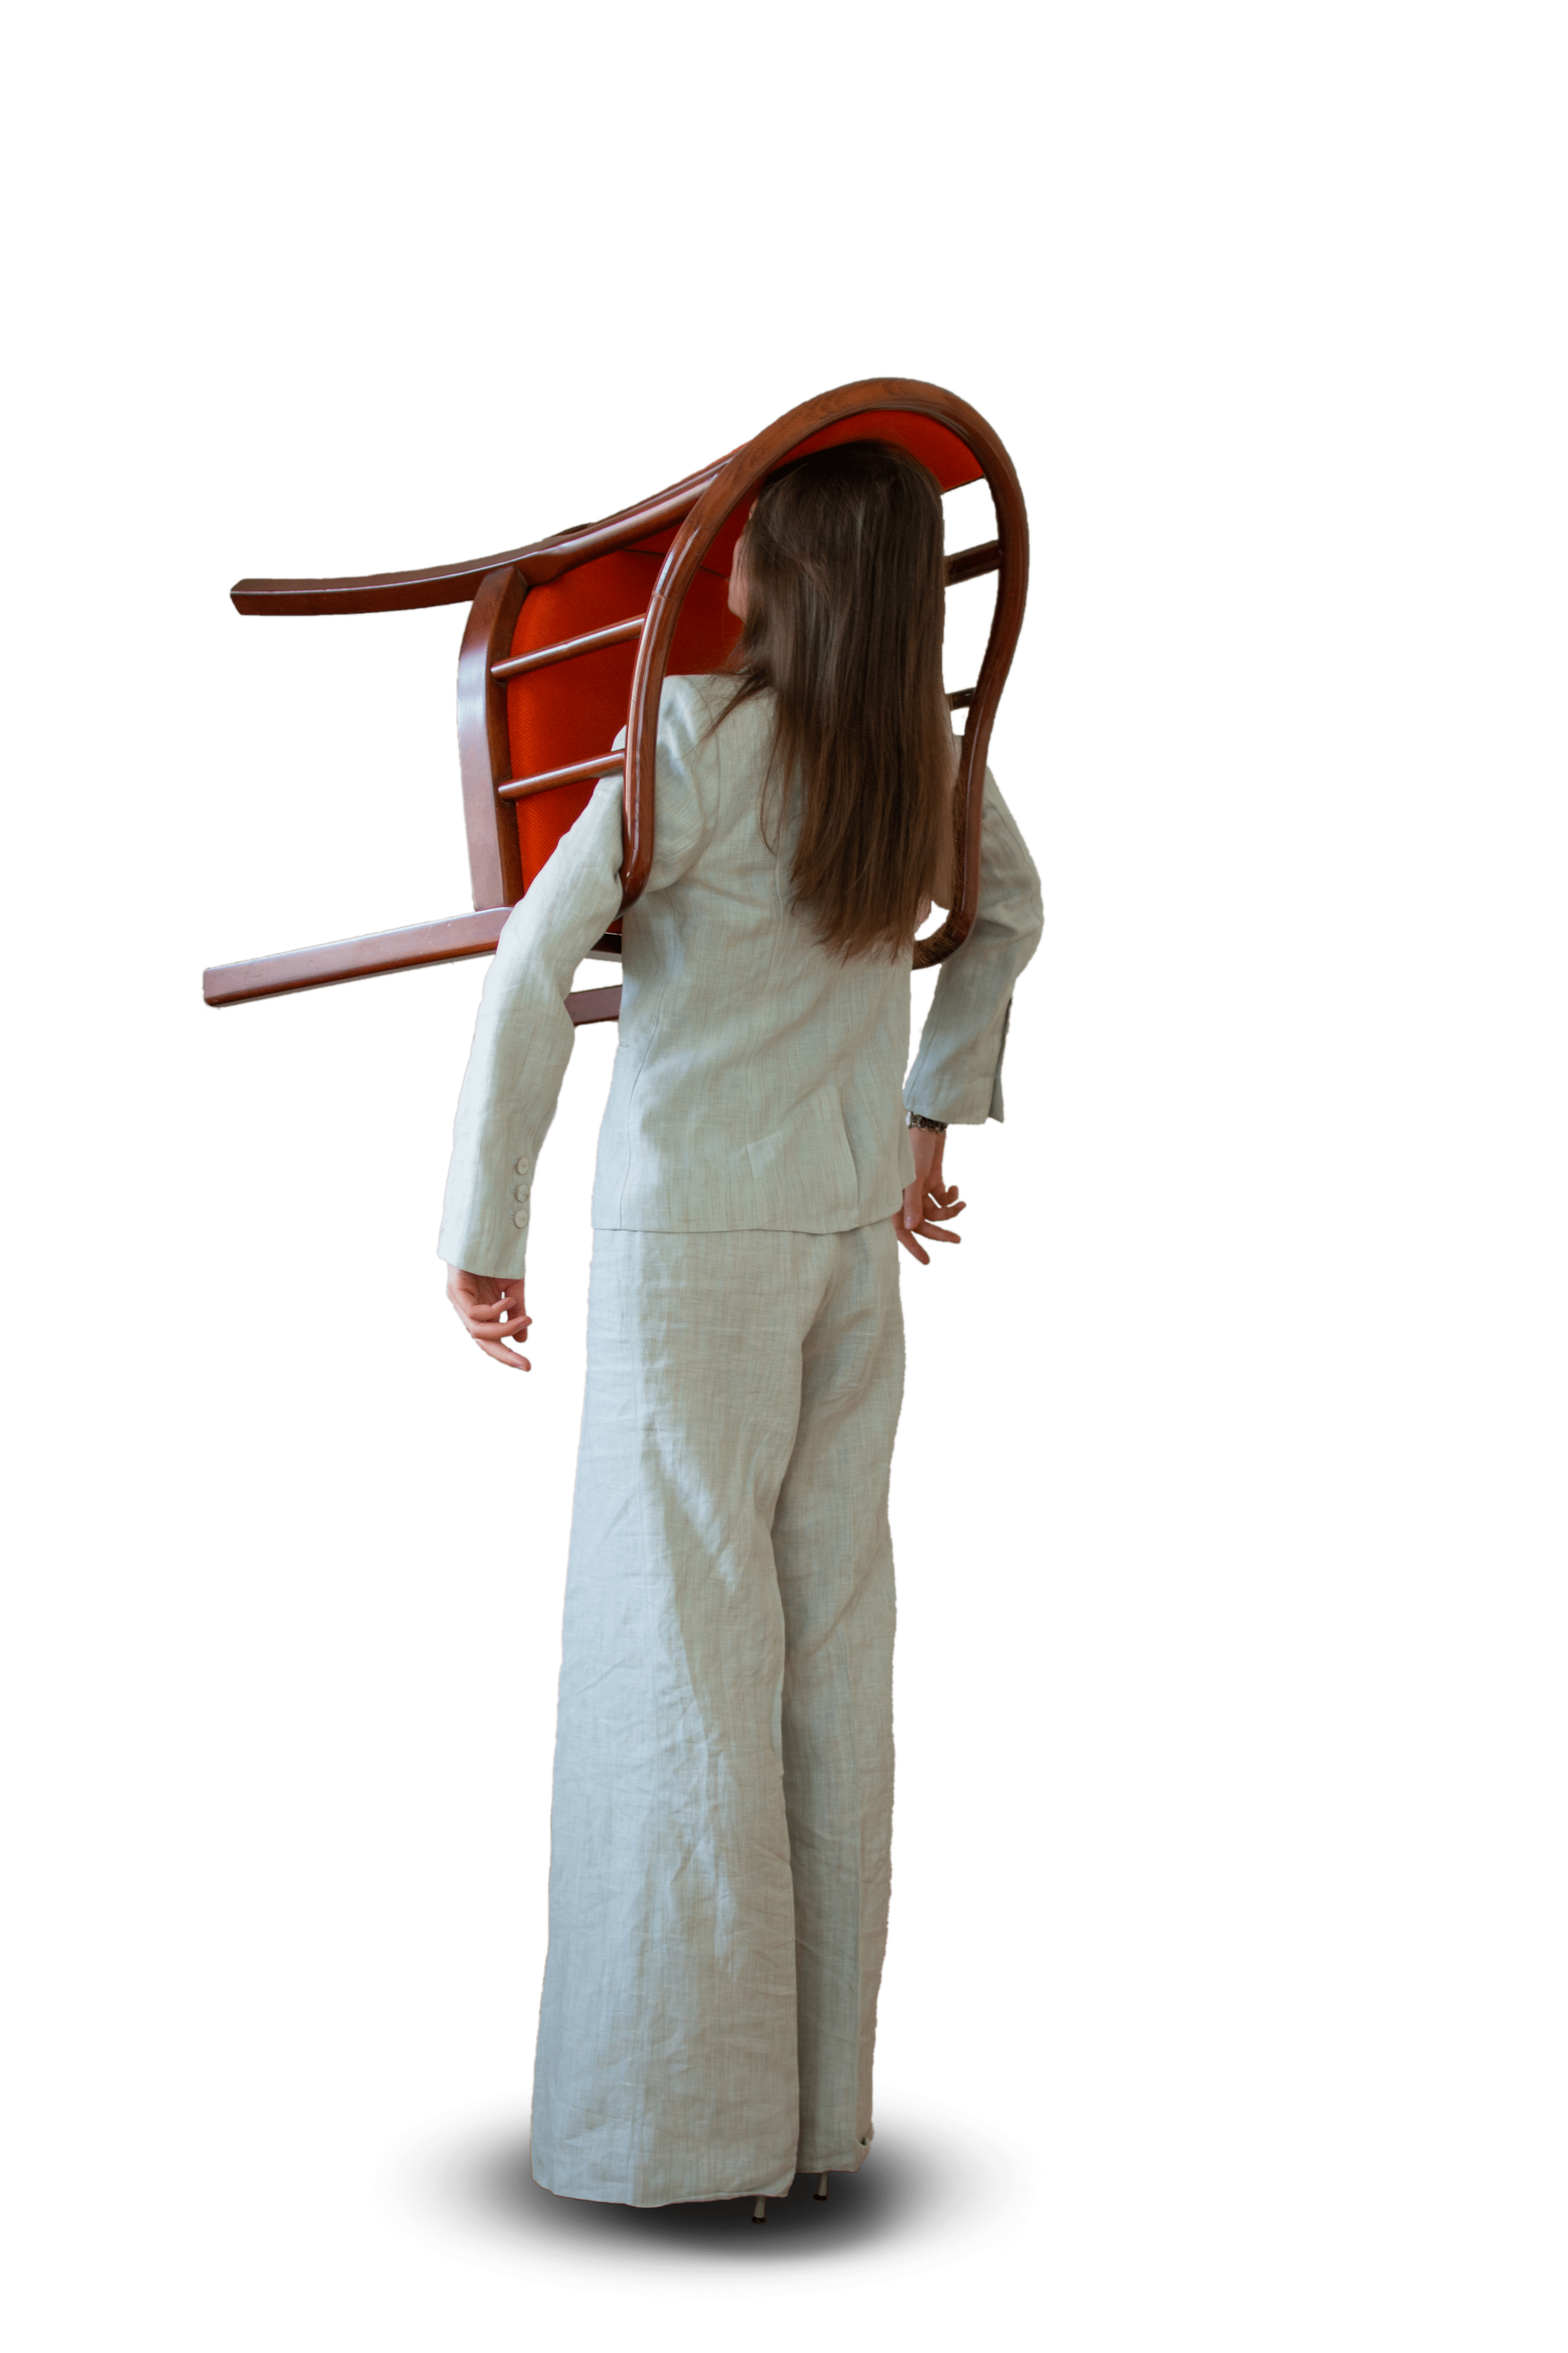
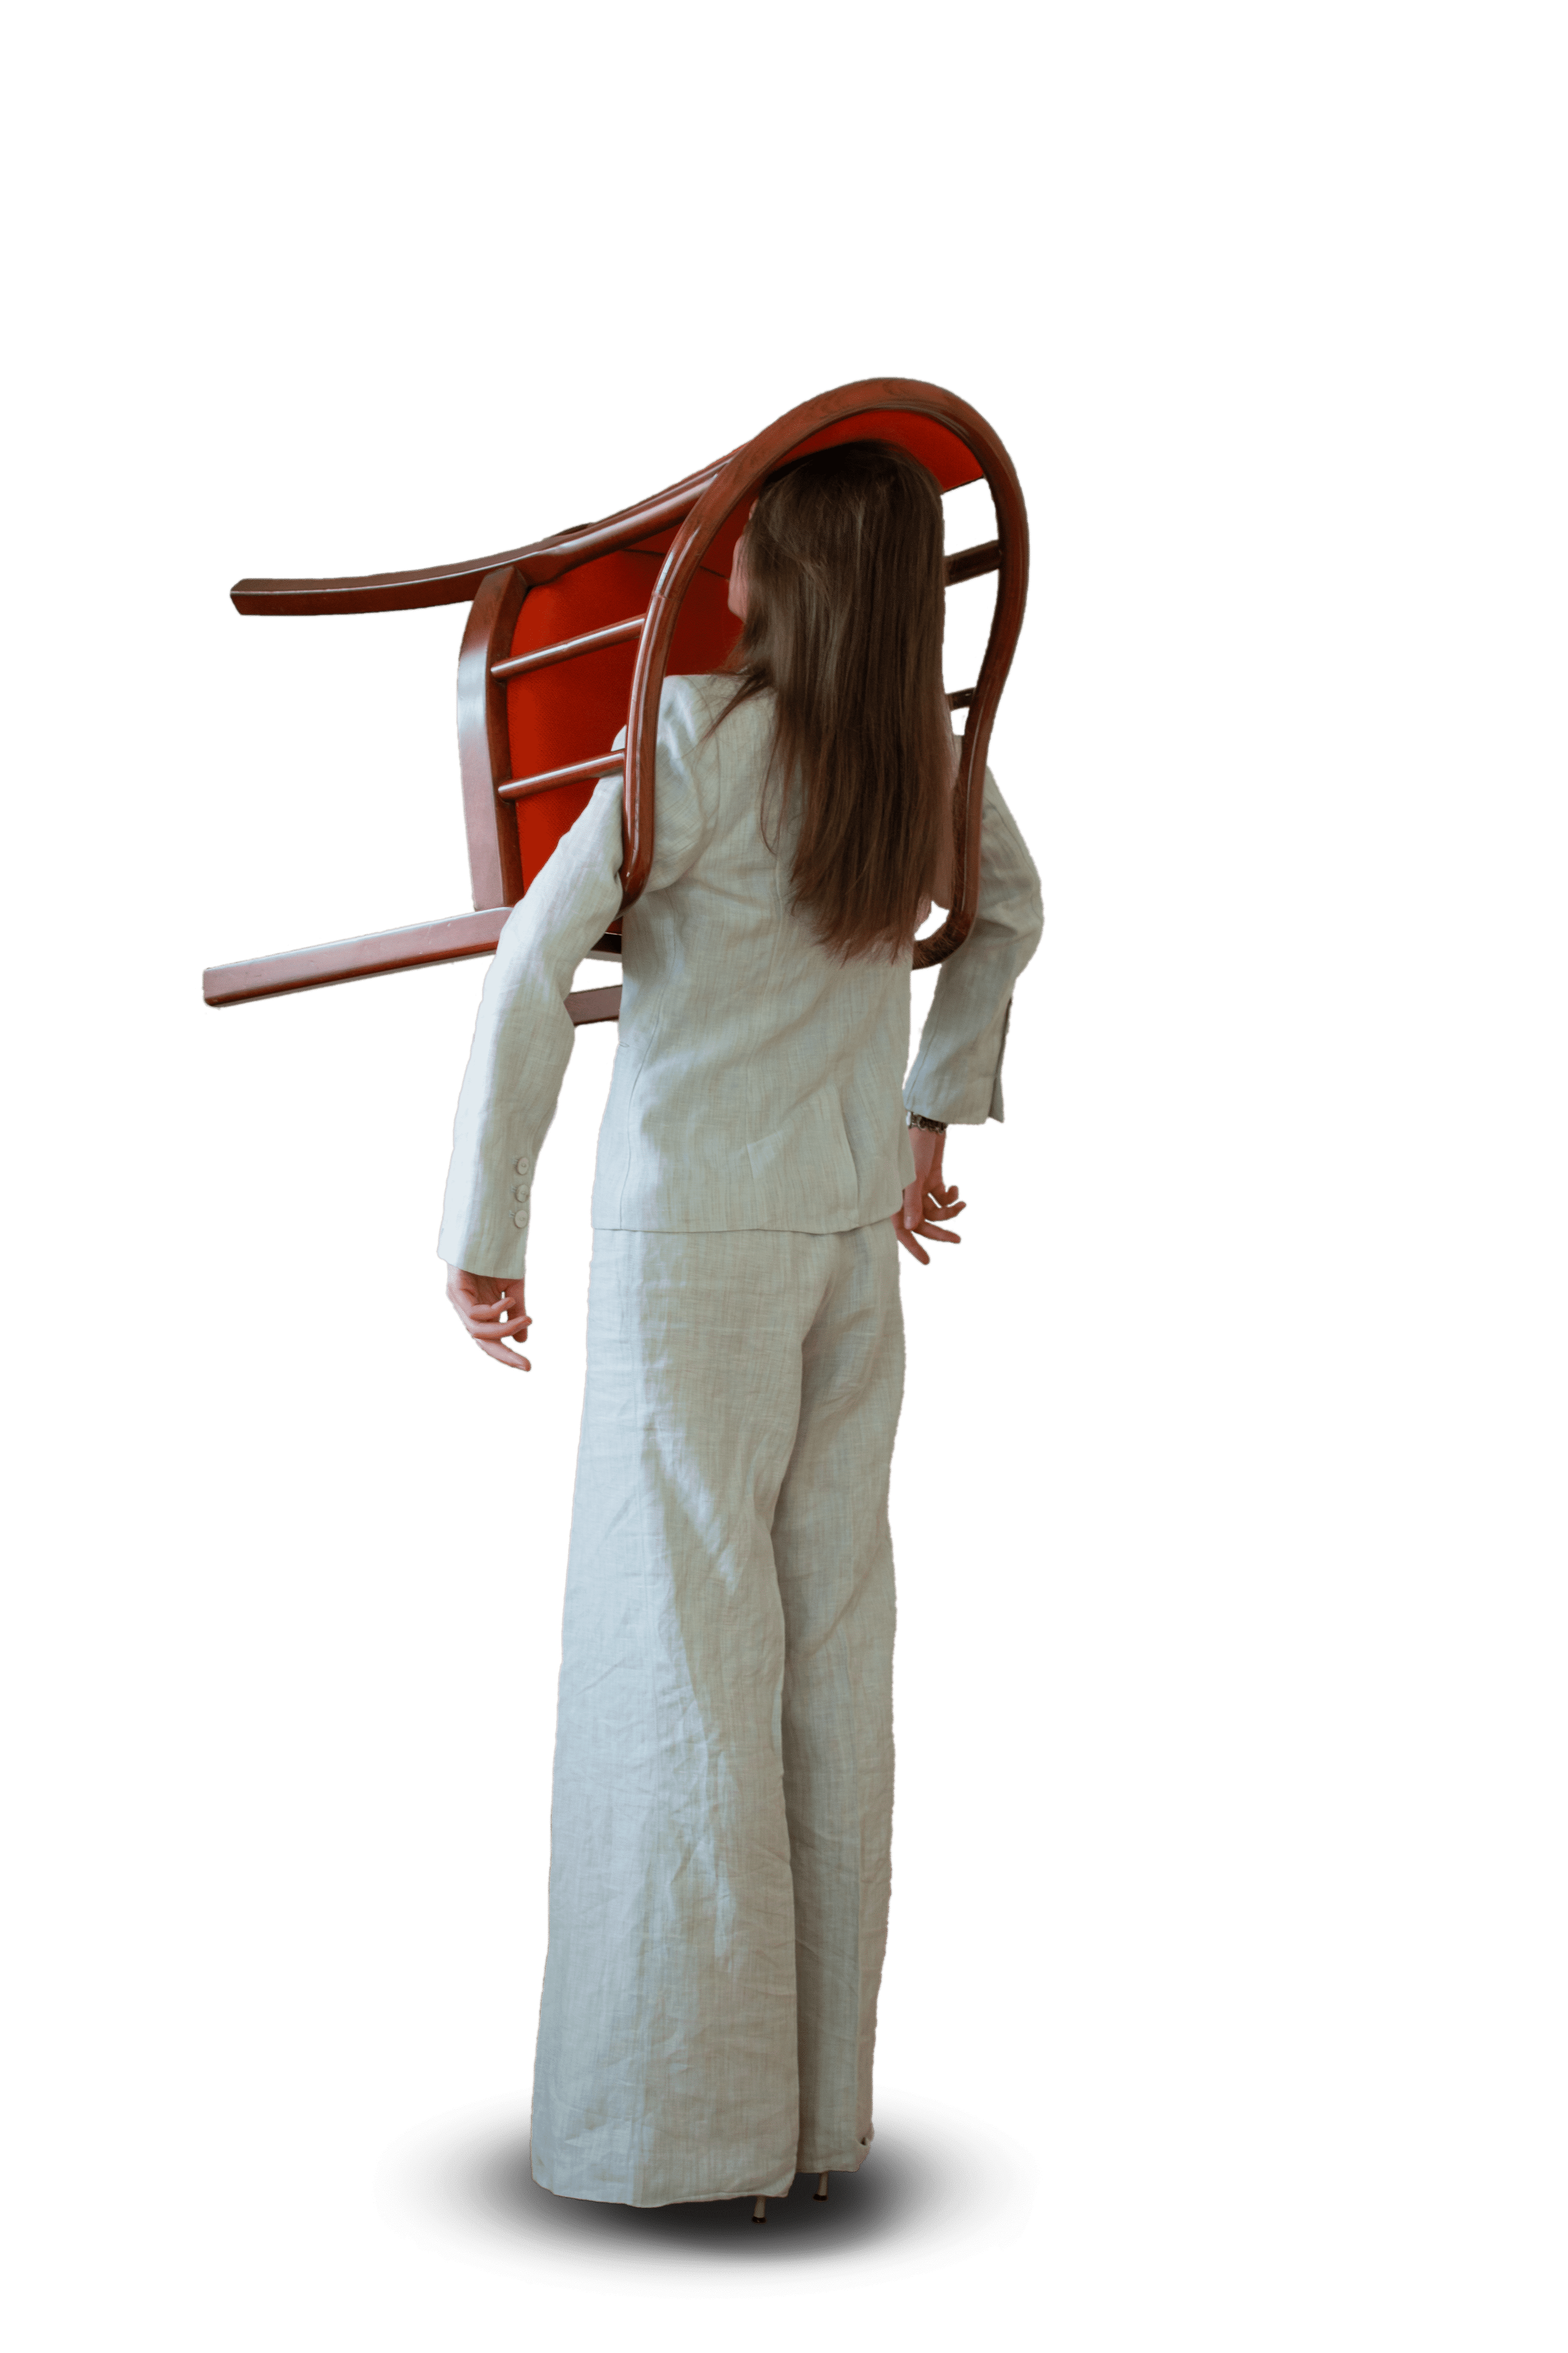
picture on phonesize

diff --git a/carbon.html b/carbon.html
@@ -14,11 +14,6 @@
 
     <!-- local stylesheet -->
     <link rel="stylesheet" href="assets/styles/style.css">
-    <style>
-        .carbon {
-            background-color: #F2F2F2;
-        }
-    </style>
 </head>
 
 <body class="carbon">
@@ -30,27 +25,21 @@
 
         <div class="collapse navbar-collapse" id="navbarNav">
             <ul class="navbar-nav ml-auto">
-
                 <li class="nav-item ">
                     <a class="nav-link active" href="index.html">01 home <span class="sr-only">(current)</span></a>
                 </li>
-
                 <li class="nav-item">
                     <a class="nav-link" href="index.html#work">02 work</a>
                 </li>
-
                 <li class="nav-item">
                     <a class="nav-link" href="index.html#aboutMe">03 about me</a>
                 </li>
-
                 <li class="nav-item" target="_blank">
                     <a class="nav-link" href="mailto:lidiacekic9@gmail.com">04 contact</a>
                 </li>
-
                 <li class="nav-item" target="_blank">
                     <a class="nav-link" href="assets/files/CV-Lidia-Cekic.pdf" id="resume">Résumé </a>
                 </li>
-
             </ul>
         </div>
     </nav>
@@ -59,10 +48,10 @@
         <div class="widthRegulator">
 
             <div class="d-flex d-flex flex-column align-items-center justify-content-center page">
-                <img class="w-25 mb-5" src="assets/images/myCarbonLogo.png" alt="">
+                <img class="w-25 mb-5" src="assets/images/myCarbonLogo.png" alt="leave logo">
                 <h2 class="bold">Application for the <span class="u">ÖBB</span> - Austrian Railway Company</h2>
             </div>
-            <div class="">
+            <div>
                 <h2 class="my-2 u bold">Context</h2>
                 <p>This project was developed during my participation at the UX Design Bootcamp at Talent Garden Vienna. The ÖBB - Austrian Railway Company conducted market research showed that <span class="bold"> more people are taking the train with the incentive to conserve
                     CO2</span>, compared to traveling by car or plane. The ÖBB wanted to invest in developing an innovative product solution, that will <span class="bold"> encourage the trend</span> of taking the train for environmental reasons.
@@ -85,7 +74,6 @@
                         <h5 class="bold">Tools</h5>
                         <p>Figma <br> Miro <br> Indesign <br> Draw.io</p>
                     </div>
-
                 </div>
 
                 <div class="row d-flex  align-items-center justify-content-center my-5 lightgrey">
@@ -97,6 +85,7 @@
                             <li>address especially <span class="bold">younger target groups</span></li>
                         </ul>
                     </div>
+
                     <div class="col-md-6 d-flex flex-column align-items-center justify-content-center w-100 my-5">
                         <h5 class="red bold">Solution</h5>
                         <ul class="">
@@ -115,11 +104,13 @@
                 </p>
                 <img class="w-100 my-3" src="assets/images/vision.png" alt="vision board" class="research2">
             </div>
+
             <div class="my-5">
                 <h5 class="bold">Competitor</h5>
                 <p> The competitor analyses revealed that the ÖBB already tried to solve this problem with a project in 2017 called 'Green Points'. The users reported difficulties with the Point system and the Application was shut down. We decided to study
                     their case well and learn from their mistakes.</p>
             </div>
+
             <div class="my-5">
                 <h5 class="bold">Market</h5>
                 <ul>
@@ -130,6 +121,7 @@
 
                 </ul>
             </div>
+
             <div class="my-5">
                 <h5 class="bold"> Target group
                 </h5>
@@ -143,6 +135,7 @@
                     </li>
                 </ul>
             </div>
+
             <div class="my-5">
                 <h5 class="bold"> Target group interviews
                 </h5>
@@ -177,6 +170,7 @@
                     <p class="col-12 greenBorder">Unlock <span class="bold">coupons & discounts</span> as you save the environment!</p>
                 </div>
             </div>
+
             <div class="my-5">
                 <h2 class="my-2 u bold">Information architecture</h2>
                 <p>Before we started prototyping we gathered our ideas and results from the user interviews to create an information architecture. Two examples below:</p>
@@ -185,6 +179,7 @@
                 <img class="w-100 mt-5" src="assets/images/IAcoupon.png" alt="">
                 <p>IA - coupons</p>
             </div>
+
             <div class="my-5">
                 <h2 class="my-2 u bold">Wireframing & Prototyping</h2>
                 <p>Throughout the whole Wireframing and Prototyping process we were making use of our prior created <span class="bold">mood board</span> on Miro. The first created <span class="bold">Lo-fi prototype was with pen and paper</span>. After an
@@ -195,6 +190,7 @@
                 <p>Further testing helped finalize the <span class="bold">Hi-fi interactive prototype</span> in Figma.</p>
                 <img class="w-100 my-5" src="assets/images/loToHi.png" alt="HiFi Prototype in phone frame">
             </div>
+
             <div class="my-5">
                 <h2 class="my-2 u bold">Testing and Iteration</h2>
                 <p>After creating an interactive Hi-Fi Prototype we went for another round of testing. We created many <span class="bold">scenarios and tested them in person</span>.</p>
@@ -203,6 +199,7 @@
                 <p> The main takeaway from the testing was to change the <span class="bold">position of two buttons</span> on the homepage, as <span class="bold">75% of users reported confusion</span> in their specific function.
                 </p>
             </div>
+
             <div>
                 <h2 class="my-2 u bold">Design Solution</h2>
                 <p>The final design solutions are <span class="bold">engaging, fun, practical, informative and educational</span> all in one. The app tracks the user's usage of environmentally friendly transport and converts the km into saved kg of CO2.
@@ -239,7 +236,6 @@
                         <p>For each level the user can unlock coupons and redeem them any time. Once the coupon is activated the user has 5 minutes to redeem it and then it can not be reused.</p>
                         <p>Coupons and discounts are all from cooperation with environmental friendly businesses. </p>
                     </div>
-
                 </div>
 
                 <div class="row align-items-center justify-content-center my-5">
@@ -263,6 +259,7 @@
                     </div>
                 </div>
             </div>
+
             <div>
                 <h2 class="my-2 u bold">Reflection</h2>
                 <ul class="mb-5 bulb">
@@ -274,29 +271,24 @@
             </div>
         </div>
 
-        <footer id="footer " class="w-75">
+        <footer id="footer " class="d-flex flex-column align-items-center">
             <div class="footerText  d-flex justify-content-center align-items-center ">
-                <p>
-                    <a href="mailto:lidiacekic9@gmail.com" class="red">Drop me a line,</a> I'd like to hear from you! <img id="smile" class="ml-3" src="assets/images/smile.png " alt="smile "></p>
+                <p><a href="mailto:lidiacekic9@gmail.com" class="red">Drop me a line,</a> I'd like to hear from you! <img id="smile" class="ml-3" src="assets/images/smile.png " alt="smile "></p>
             </div>
             <div class="d-flex justify-content-center mb-5 ">
-
                 <a href="https://www.linkedin.com/in/lidia-cekic-2aa8311b3/ ">
-                    <i class="fa fa-3x m-2 footer-icon fa-linkedin text-dark mx-3 ">
-                            </i>
+                    <i class="fa fa-3x m-2 footer-icon fa-linkedin text-dark mx-3 "></i>
                 </a>
                 <a href="mailto:lidiacekic9@gmail.com">
-                    <i class="fa fa-3x m-2 footer-icon fa-envelope-o text-dark mx-3 ">
-                            </i>
+                    <i class="fa fa-3x m-2 footer-icon fa-envelope-o text-dark mx-3 "></i>
                 </a>
                 <a href="https://twitter.com/CekicLidia ">
-                    <i class="fab fa-3x m-2 footer-icon fa-twitter text-dark mx-3 ">
-                            </i>
+                    <i class="fab fa-3x m-2 footer-icon fa-twitter text-dark mx-3 "></i>
                 </a>
                 <a href="https://github.com/LidiaHammer ">
                     <i class="fab fa-3x m-2 footer-icon fa-github text-dark mx-3 "></i></a>
             </div>
-
+            <small>Copyright &copy 2021 LidiaCekic. All Rights Reserved</small>
         </footer>
     </div>
 

diff --git a/index.html b/index.html
@@ -173,7 +173,7 @@
             <div class="container d-flex intro">
                 <!-- About Me Text -->
                 <div class="d-flex align-items-center justify-content-center row" id="introText">
-                    <div class="d-none d-md-inline col-2"></div>
+                    <div class="d-none d-lg-inline col-2"></div>
                     <div class="col-10">
                         <h1 class="mb-3 lidia"><span class="red lora">Lidia Čekić BA, BSc</span></h1>
                         <h5 class="mb-2 aboutMeTextSmall">A well-organized curious all-rounder ready to create.</h5>
@@ -184,14 +184,14 @@
                     </div>
                 </div>
                 <!-- About Me Image -->
-                <div class="d-none d-lg-flex align-items-center justify-content-center‚">
-                    <figure>
-                        <img src="assets/images/chairSitting.png" id="chair" alt="women sitting in chair">
-                    </figure>
+                <div class="d-none d-lg-flex align-items-center justify-content-center">
+                    <img src="assets/images/chairSitting.png" id="chair" alt="women sitting in chair">
                 </div>
             </div>
+            <div class="d-flex align-items-center justify-content-center d-lg-none ">
+                <img src="assets/images/chairSittingPhone.png" class="w-50" alt="women sitting in chair">
+            </div>
         </div>
-
         <!-- Skills -->
         <div class="d-flex flex-column align-items-center justify-content-center skills">
             <h2 class="mt-5">Skills</h2>
@@ -229,6 +229,7 @@
                 <a href="https://github.com/LidiaHammer">
                     <i class="fab fa-3x m-2 footer-icon fa-github text-dark mx-3"></i></a>
             </div>
+            <small>Copyright &copy 2021 LidiaCekic. All Rights Reserved</small>
         </footer>
     </div>
 

diff --git a/assets/styles/style.css b/assets/styles/style.css
@@ -378,6 +378,10 @@ a h2 {
 
 /* carbon */
 
+.carbon {
+    background-color: #F2F2F2;
+}
+
 .page {
     width: 100%;
     height: 80vh;
